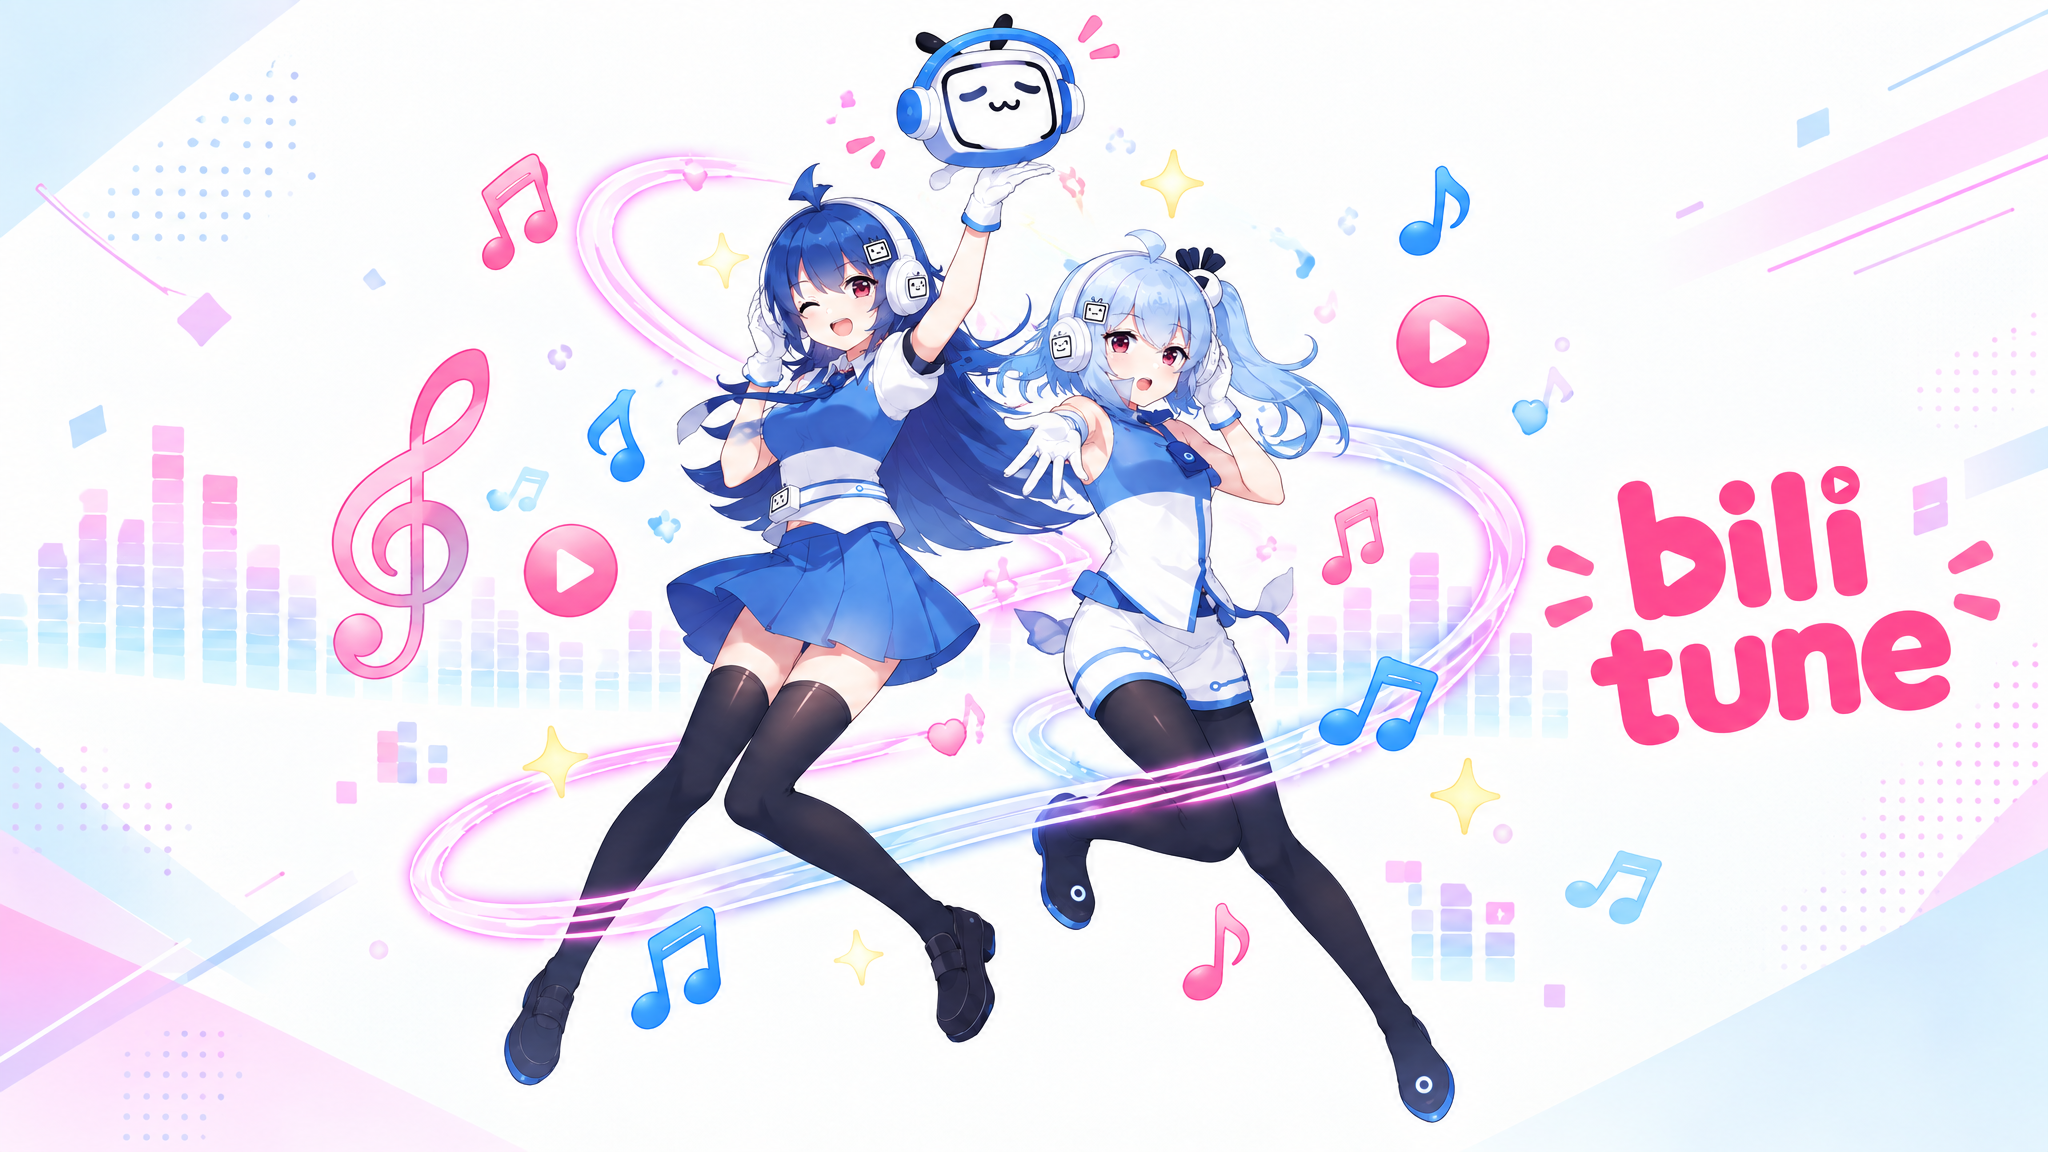
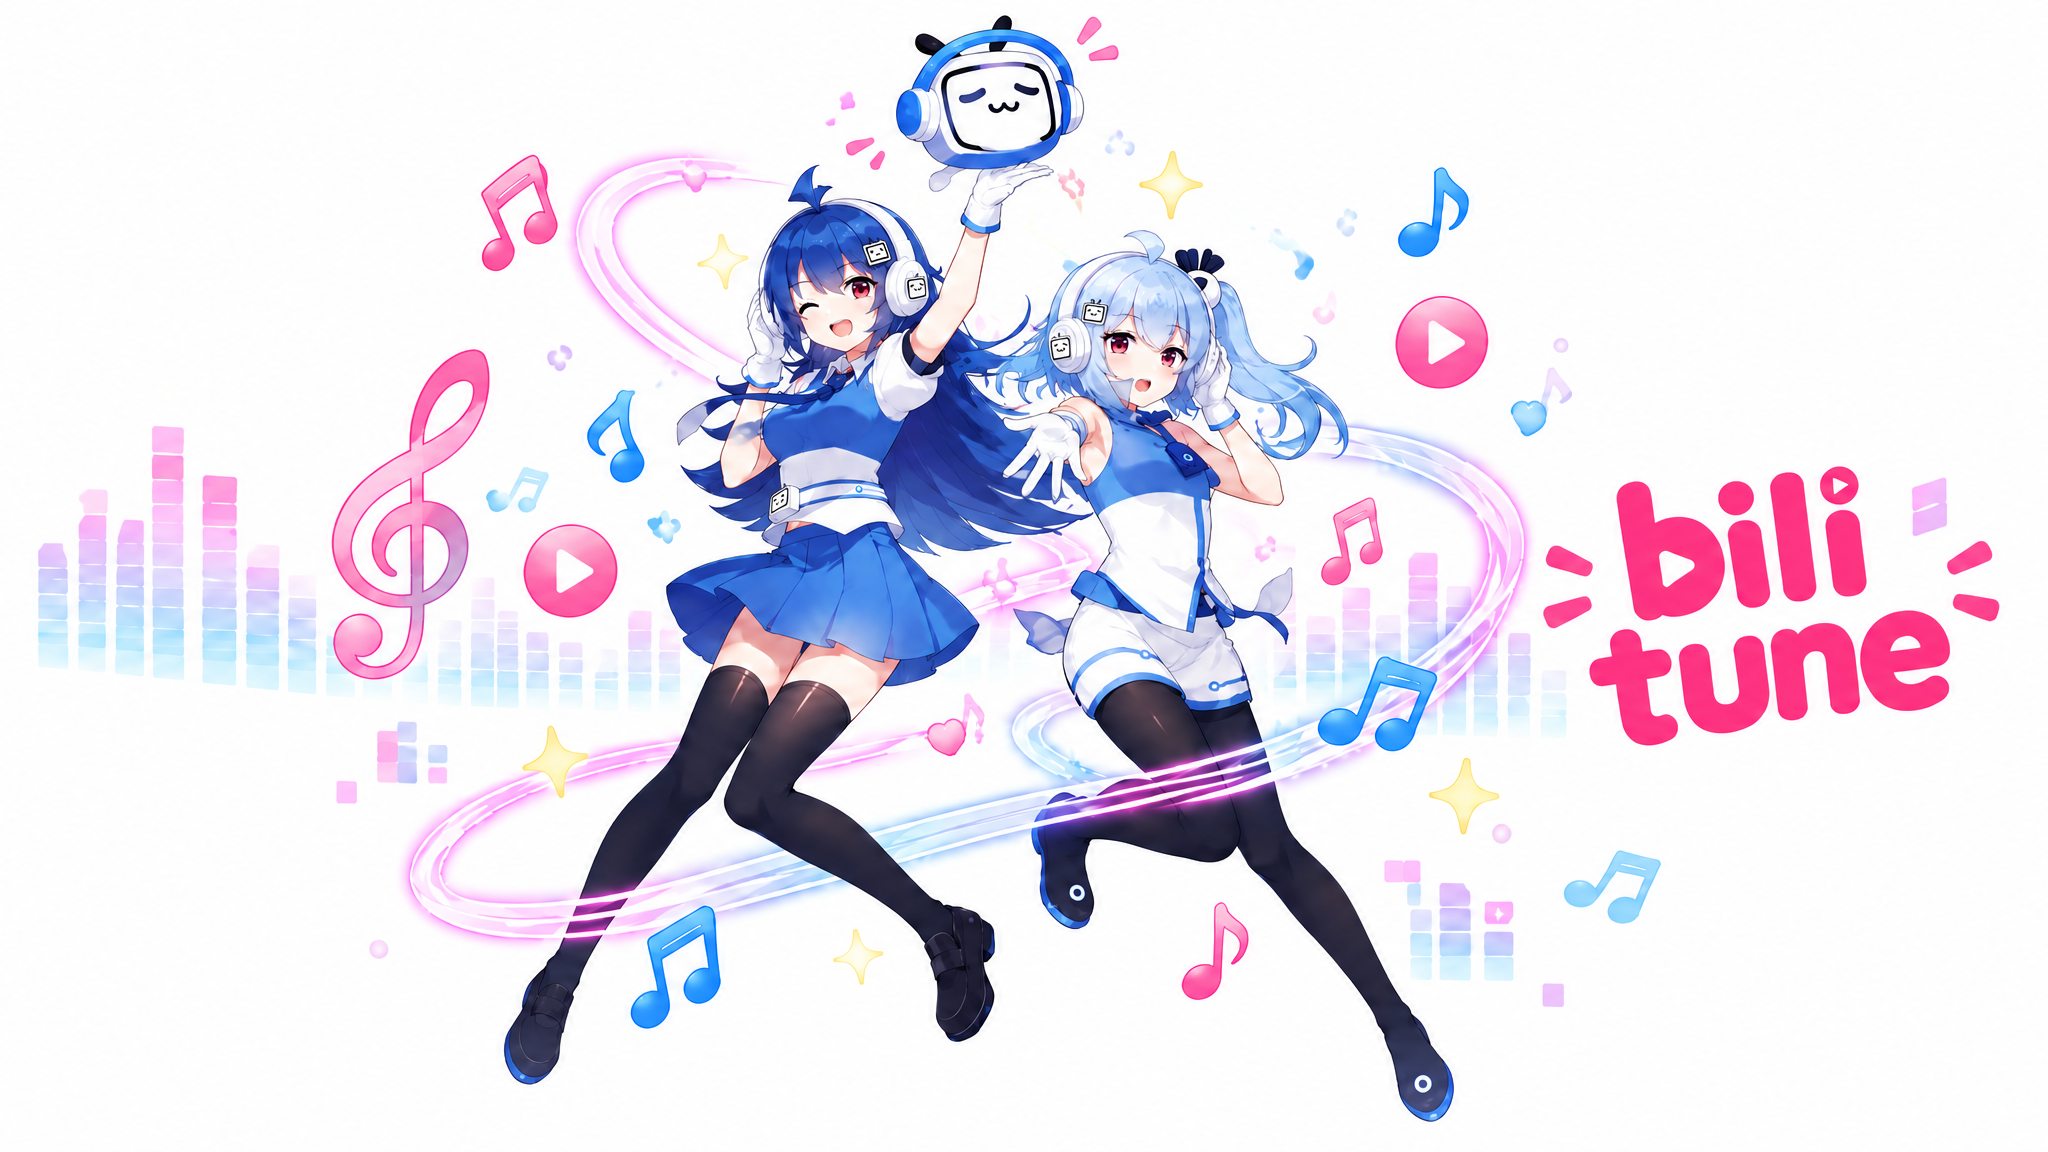
ui(splash): 改为等比缩放不裁切 + 同色白边（新 PC 图）
- 桌面/手机都改 contain：整图完整显示，四周留白取图底色（白）
- 采用用户重导出的 PC 图（四边 100% 纯白）→ 实测接缝色差 2，肉眼不可见
- 附带真实尺寸预览 docs/images/splash-preview-*.png

diff --git a/desktop/ui/index.html b/desktop/ui/index.html
@@ -4,7 +4,7 @@
 <style>
   html,body{margin:0;height:100%;overflow:hidden}
   body{
-    background:#0b0b10 url("loading_pc.png") center center / cover no-repeat;
+    background:#ffffff url("loading_pc.png") center center / contain no-repeat;
     color:#6b6b78;
     font:600 13px -apple-system,"SF Pro Display","PingFang SC",system-ui,sans-serif;
     user-select:none;

diff --git a/android/app/src/main/java/io/github/lq1123/bilimusic/MainActivity.java b/android/app/src/main/java/io/github/lq1123/bilimusic/MainActivity.java
@@ -53,7 +53,7 @@ public class MainActivity extends Activity {
         splash.setBackgroundColor(0xFFFFFFFF);
         ImageView art = new ImageView(this);
         art.setImageResource(R.drawable.loading_mobile);
-        art.setScaleType(ImageView.ScaleType.CENTER_CROP);
+        art.setScaleType(ImageView.ScaleType.FIT_CENTER); // 等比缩放整图，不裁切
         splash.addView(art, new android.widget.FrameLayout.LayoutParams(
             android.widget.FrameLayout.LayoutParams.MATCH_PARENT,
             android.widget.FrameLayout.LayoutParams.MATCH_PARENT));
